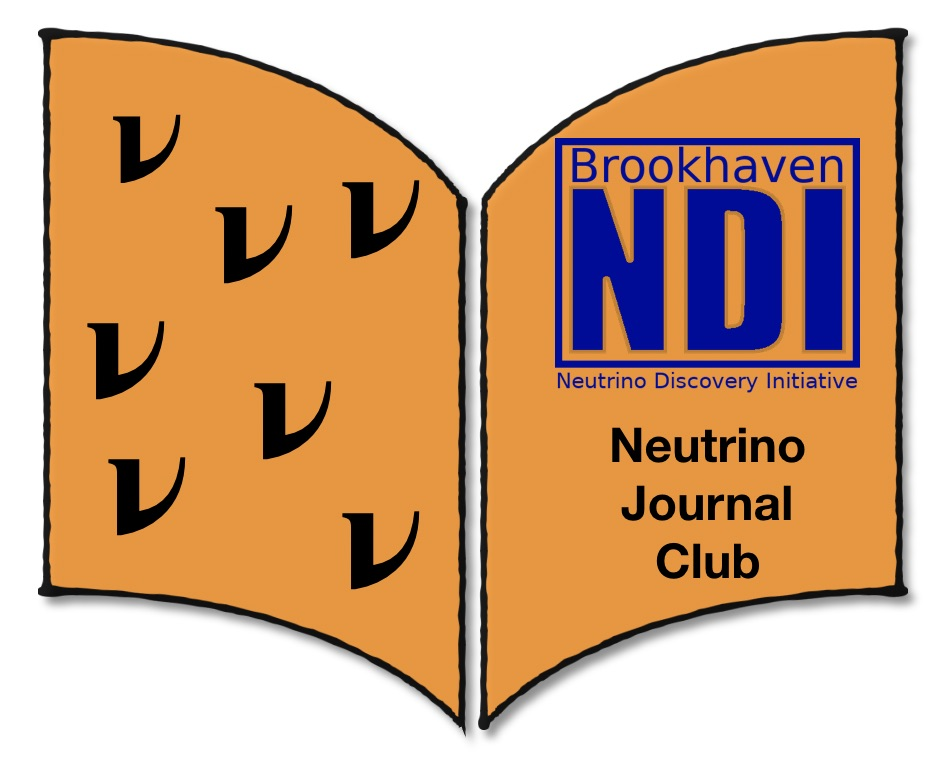
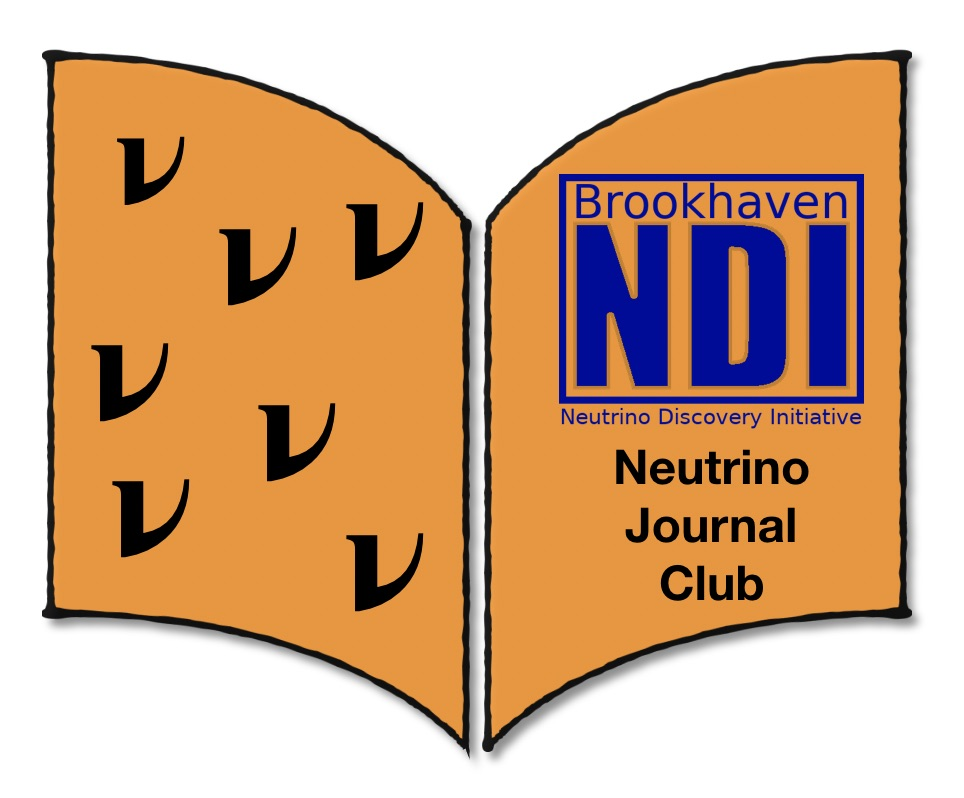
rebuilding site Tue Feb 18 10:28:50 EST 2020

diff --git a/project/bnlnuclub/index.html b/project/bnlnuclub/index.html
@@ -641,9 +641,9 @@
 </div>
 
 
-<div class="article-header article-container featured-image-wrapper mt-4 mb-4" style="max-width: 720px; max-height: 585px;">
+<div class="article-header article-container featured-image-wrapper mt-4 mb-4" style="max-width: 720px; max-height: 596px;">
   <div style="position: relative">
-    <img src="/project/bnlnuclub/featured_hu7fba9da1679ce4a56c592454604cb9c1_111301_720x0_resize_q90_lanczos.jpg" alt="" class="featured-image">
+    <img src="/project/bnlnuclub/featured_hu7fba9da1679ce4a56c592454604cb9c1_112766_720x0_resize_q90_lanczos.jpg" alt="" class="featured-image">
     
   </div>
 </div>

diff --git a/index.html b/index.html
@@ -911,7 +911,7 @@ Fisica Teorica UAM-CSIC in Madrid, Spain, where I was funded by the Marie Curie 
     
     
     <a href="/project/bnlnuclub/"  class="card-image hover-overlay">
-      <img src="/project/bnlnuclub/featured_hu7fba9da1679ce4a56c592454604cb9c1_111301_550x0_resize_q90_lanczos.jpg" alt="" class="img-responsive">
+      <img src="/project/bnlnuclub/featured_hu7fba9da1679ce4a56c592454604cb9c1_112766_550x0_resize_q90_lanczos.jpg" alt="" class="img-responsive">
     </a>
     
     <div class="card-text">
